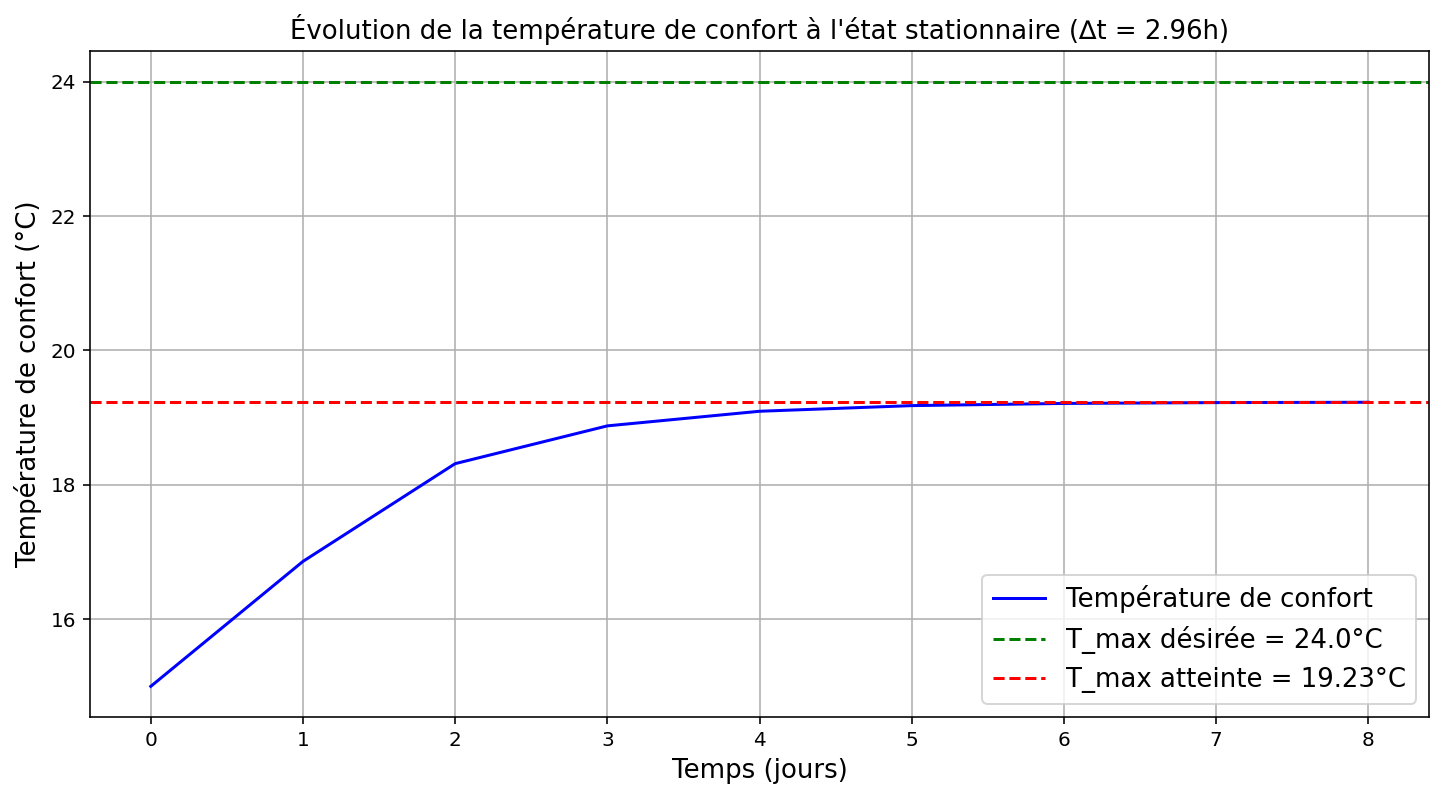
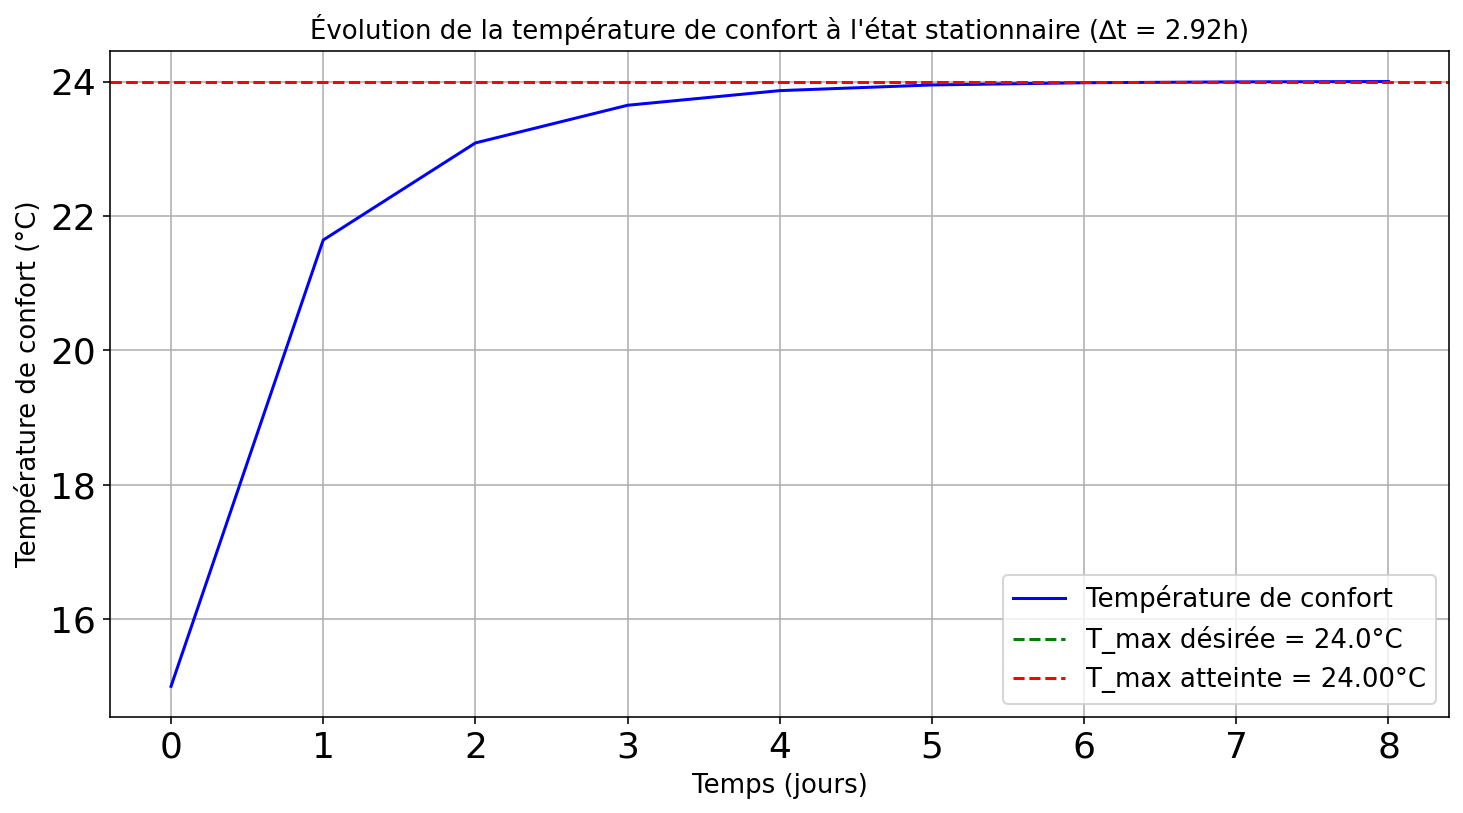
chore: change plots

diff --git a/SimTABS.py b/SimTABS.py
@@ -681,9 +681,13 @@ def simulation_etat_stationnaire4(tspan, T0, h, delta_t, max_jours):
     t_f = []  # Liste pour stocker les temps t de chaque jour
     T_f = []  # Liste pour stocker les températures T de chaque jour
     
+    T_max = [] # Liste pour stocker les T_max de chaque jour
+
     # Conditions initiales
     t_f.append(tspan[0])
     T_f.append(T0)
+
+    T_max.append(T0[0])
     
     # Stocke la température initiale de la pièce
     T_room_jour_prec = T0[0]
@@ -696,6 +700,9 @@ def simulation_etat_stationnaire4(tspan, T0, h, delta_t, max_jours):
         # Stocker t et T dans les listes
         t_f.append(t_4[-1] + jour * (tspan[-1]-tspan[0]))
         T_f.append(T_4[:, -1])
+        
+        T_confort = (T_4[0, :] + T_4[4, :])/2
+        T_max.append(np.max(T_confort))
         
         # Mettre à jour T_room_jour_actuel
         T_room_jour = T_4[0, -1]
@@ -711,7 +718,7 @@ def simulation_etat_stationnaire4(tspan, T0, h, delta_t, max_jours):
         T0 = T_4[:, -1]
         T_room_jour_prec = T_room_jour
             
-    return t_f, T_f, jour+1
+    return t_f, T_f, jour+1, T_max
 
 def f_stationnaire(delta_t):
     """
@@ -722,7 +729,7 @@ def f_stationnaire(delta_t):
         return float('inf')
         
     # Simulation sur plusieurs jours jusqu'à l'état stationnaire
-    nb_jours = 5  # On simule sur 5 jours pour atteindre l'état stationnaire
+    nb_jours = 10  # On simule sur 10 jours pour atteindre l'état stationnaire
     t_complet, T_complet = simulation_complete(tspan, T0, h, delta_t, nb_jours)
     
     # Calcul de la température de confort pour tous les points
@@ -755,7 +762,7 @@ delta_t_optimal = resultat_sec[0]
 print(f"Question 4.3\nPour atteindre une température maximale de {T_max_d}°C à l'état stationnaire: ∆t optimal = {delta_t_optimal:.2f} heures \n")
 
 # Vérification du résultat avec le delta_t optimal trouvé
-t_stat, T_stat, jour_stat = simulation_etat_stationnaire4(tspan, T0, h, delta_t_optimal, max_jours)
+t_stat, T_stat, jour_stat, T_max = simulation_etat_stationnaire4(tspan, T0, h, delta_t_optimal, max_jours)
 T_stat = np.array(T_stat)
 T_confort_final = (T_stat[-1, 0] + T_stat[-1, 4])/2
 print(f"Température maximale atteinte à l'état stationnaire : {T_confort_final:.2f}°C\n")
@@ -766,11 +773,12 @@ T_stat = np.array(T_stat)
 
 # Calcul de la température de confort pour tous les points
 T_confort = (T_stat[:, 0] + T_stat[:, 4])/2
+T_max = np.array(T_max)
 
 plt.figure(figsize=(12, 6))
-plt.plot(t_stat, T_confort, 'b-', label='Température de confort')
+plt.plot(t_stat, T_max, 'b-', label='Température de confort')
 plt.axhline(y=T_max_d, color='g', linestyle='--', label=f'T_max désirée = {T_max_d}°C')
-plt.axhline(y=T_confort[-1], color='r', linestyle='--', label=f'T_max atteinte = {T_confort[-1]:.2f}°C')
+plt.axhline(y=T_max[-1], color='r', linestyle='--', label=f'T_max atteinte = {T_max[-1]:.2f}°C')
 plt.xlabel("Temps (jours)", fontsize=13)
 plt.ylabel("Température de confort (°C)", fontsize=13)
 plt.title(f"Évolution de la température de confort à l'état stationnaire (∆t = {delta_t_optimal:.2f}h)", fontsize=13)
